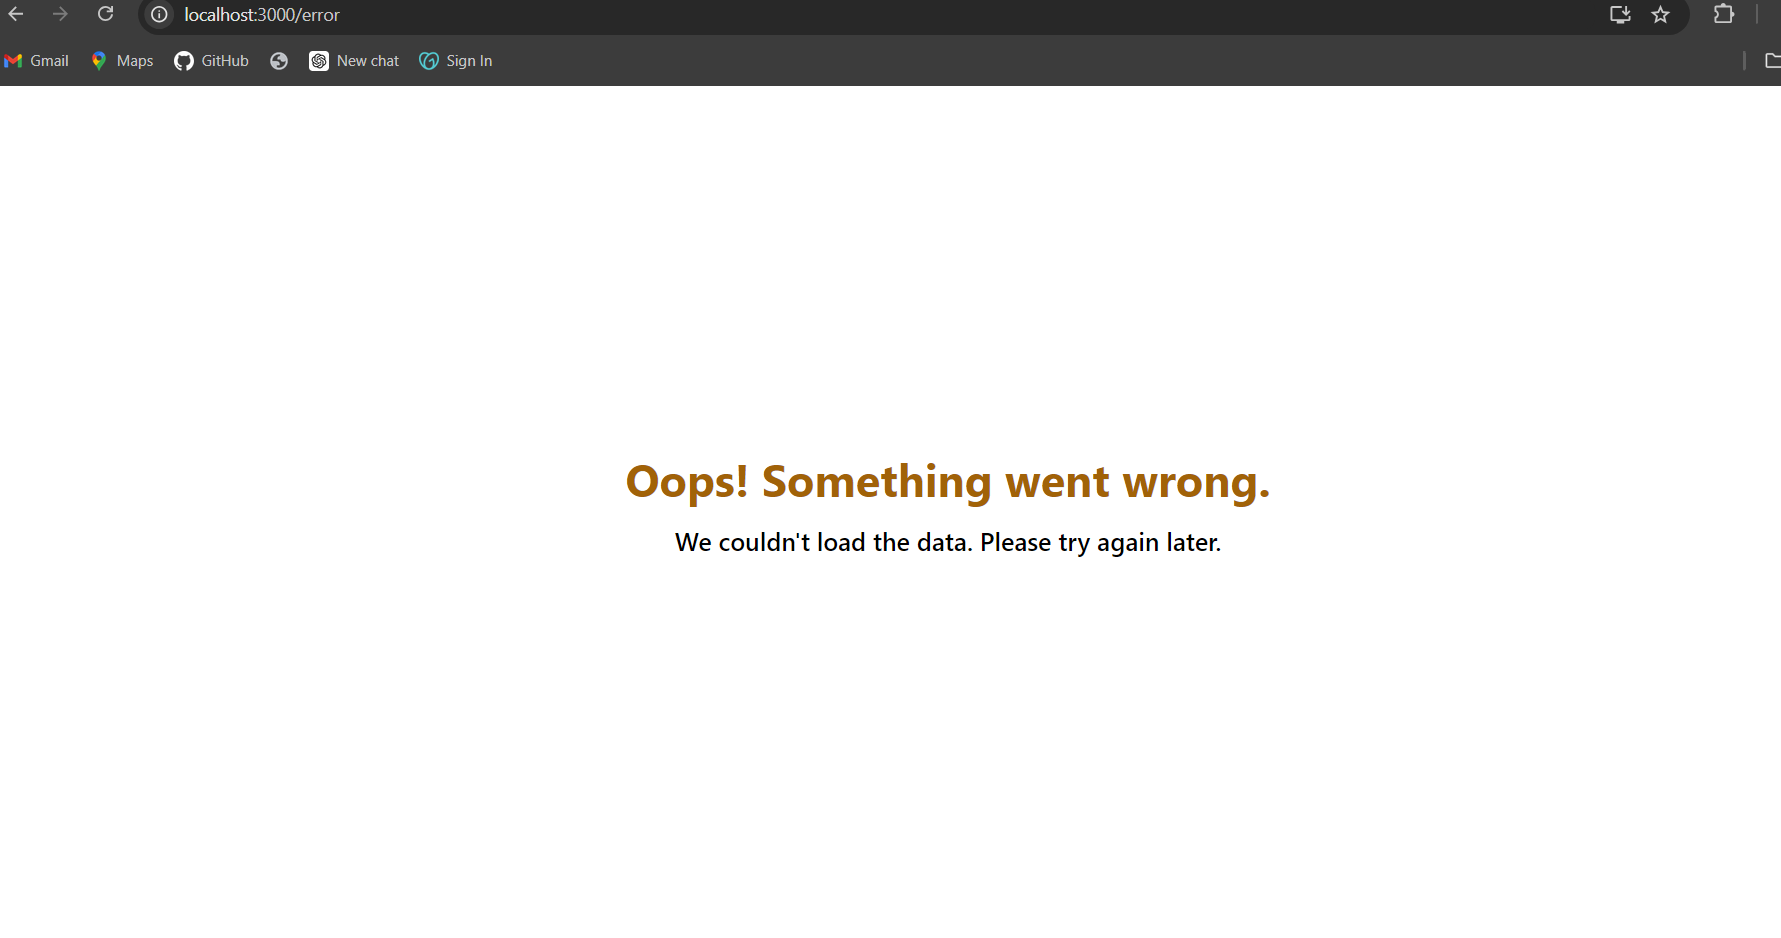
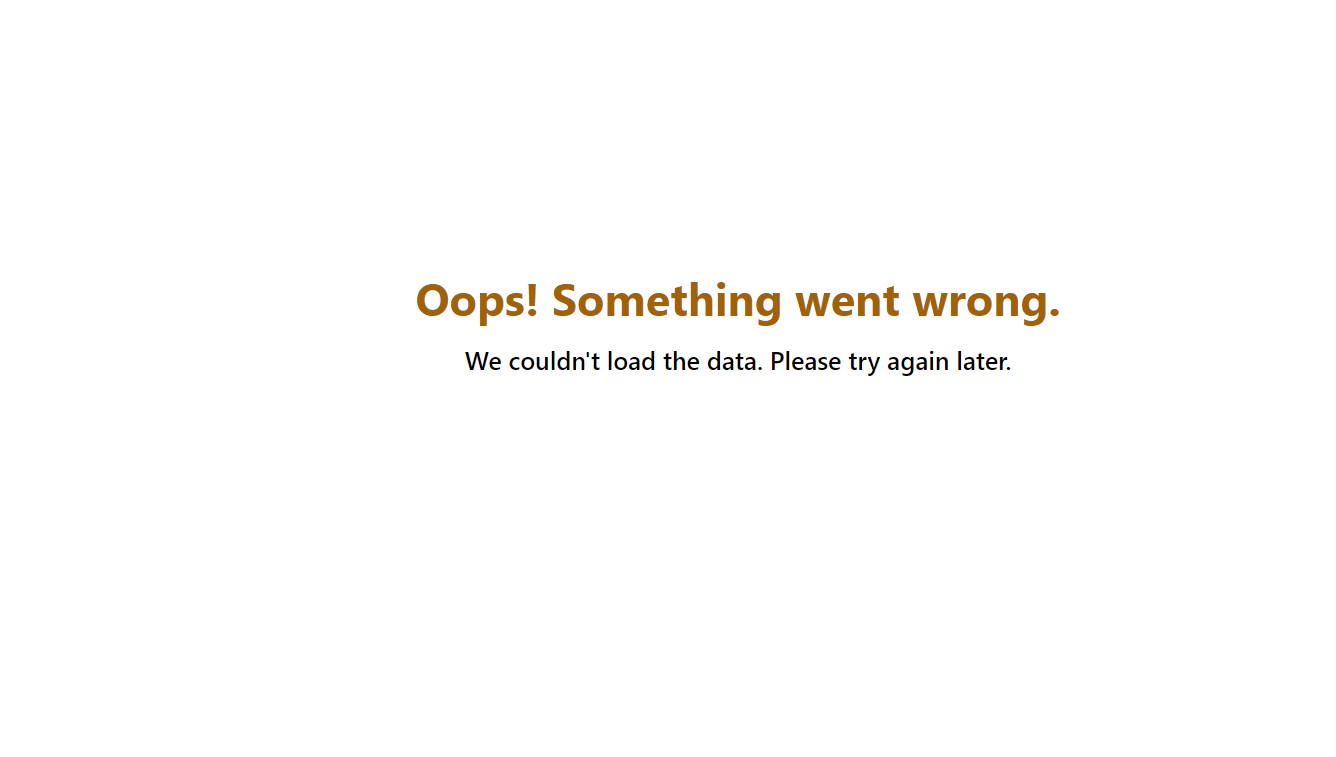
updated readme file

Changed region(s): [[0.0, 0.0, 1.0, 0.0911], [0.3376, 0.4557, 0.7672, 0.6077], [0.3069, 0.3646, 0.7979, 0.4254]]

diff --git a/README.md b/README.md
@@ -1,6 +1,6 @@
-# Certificate Generator
+# Certificate App
 
-This project is a Certificate Generator built with React and Tailwind CSS. It dynamically fetches certificate details from an API and renders a certificate that is fully responsive and styled using Tailwind CSS.
+This project is a Certificate Generator App built with React and Tailwind CSS. It dynamically fetches certificate details from an API and renders a certificate that is fully responsive and styled using Tailwind CSS.
 
 ## Features
 
@@ -19,49 +19,59 @@ This project is a Certificate Generator built with React and Tailwind CSS. It dy
 
 ## Installation
 
-1.  Clone the repository:
+1. Clone the repository:
 
-    git clone https://github.com/SherinAnees/certificate-app.git
-    cd certificate-app
+   ```bash
+   git clone https://github.com/SherinAnees/certificate-app.git
+   cd certificate-app
+   ```
 
-2.  Install the dependencies:
-    npm install
-    # or
-    yarn install
-3.  Add Environment Variables:
+2. Install the dependencies:
 
-    This project uses environment variables to manage API URLs. You need to create a .env file in the root of the project with the following content:
+   ```bash
+   npm install
+   # or
+   yarn install
+   ```
 
-        REACT_APP_BASE_URL=https://mockapi.io/api/v1
+3. Add Environment Variables:
 
-4.  Running the Project:
+   This project uses environment variables to manage API URLs. You need to create a `.env` file in the root of the project with the following content:
 
-To run the project locally, use the following command:
+   ```env
+   REACT_APP_BASE_URL=https://mockapi.io/api/v1
+   ```
 
-    npm start
-    # or
-    yarn start
+4. Running the Project:
 
-    The application will be available at http://localhost:3000
+   To run the project locally, use the following command:
+
+   ```bash
+   npm start
+   # or
+   yarn start
+   ```
+
+   The application will be available at `http://localhost:3000`.
 
 ## Screenshots
 
 ### Home Page
 
-![Home page-Desktop](../certificate-app/public/screenshots/desktop%20view.png)
+![Home page-Desktop](public/screenshots/desktop%20view.png)
 
 ### Responsive View
 
-![Responsive View-ipad](../certificate-app/public/screenshots/ipad%20view.png)
-![Responsive View-mobile](../certificate-app/public/screenshots/mobile%20view.png)
+![Responsive View-ipad](public/screenshots/ipad%20view.png)
+![Responsive View-mobile](public/screenshots/mobile%20view.png)
 
 ### Error Page
 
-![Error Page](../certificate-app/public/screenshots/error%20page.png)
+![Error Page](public/screenshots/error%20page.png)
 
 ### Page Not Found
 
-![Page Not Found ](../certificate-app/public/screenshots/page%20not%20found.png)
+![Page Not Found](public/screenshots/page%20not%20found.png)
 
 ## Conclusion
 
